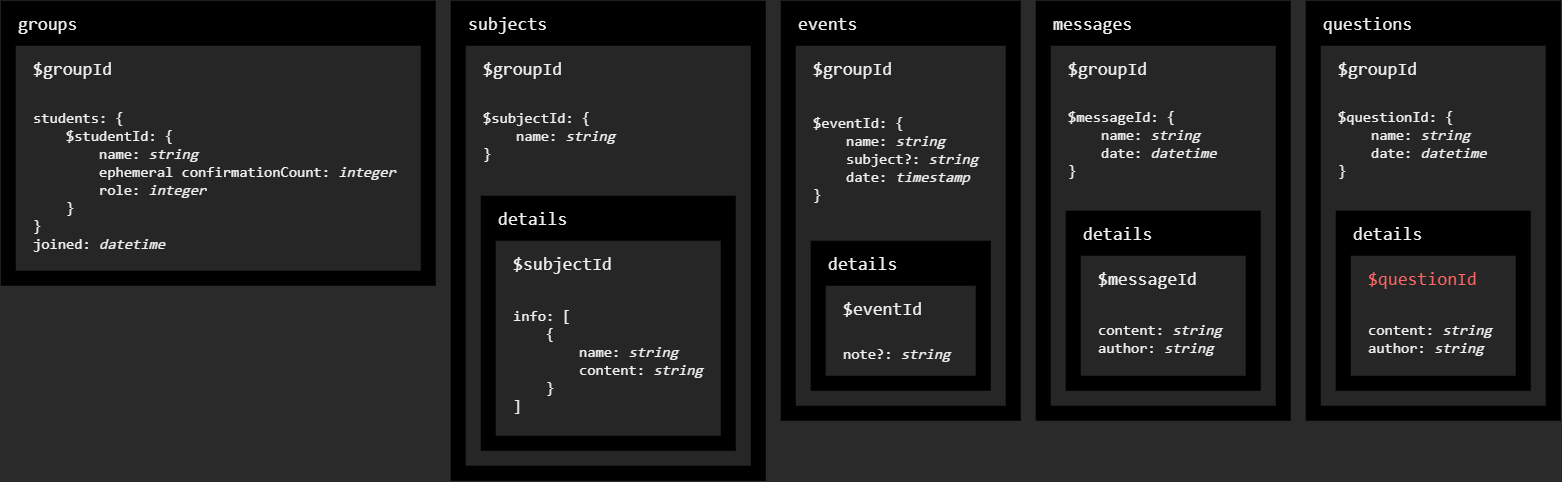
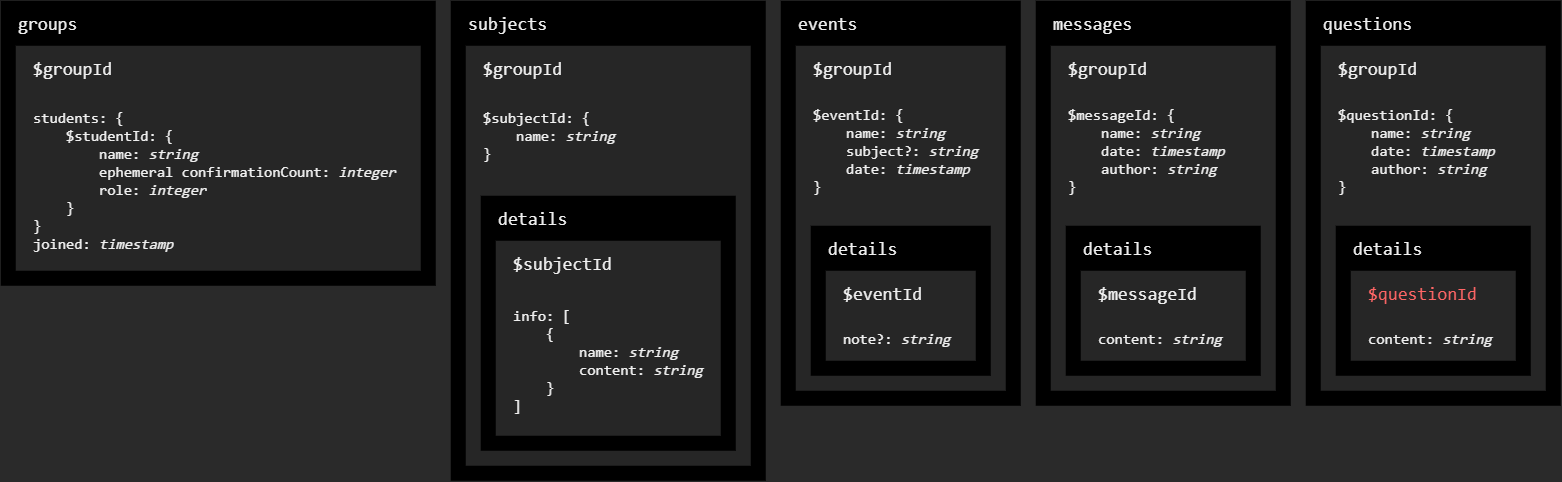
Make the author of a message not a detail

diff --git a/app/lib/storage/entities/message.dart b/app/lib/storage/entities/message.dart
@@ -9,7 +9,7 @@ import 'entity.dart';
 
 class Message extends Entity implements Comparable {
 	final DateTime date;
-	String? author;
+	String author;
 
 	Message({
 		required String name,
@@ -22,16 +22,17 @@ class Message extends Entity implements Comparable {
 	
 	Message.fromCloudFormat(MapEntry<String, dynamic> entry) :
 		_name = entry.value[Field.name.name] as String,
-		date = (entry.value[Field.date.name] as Timestamp).toDate();
+		date = (entry.value[Field.date.name] as Timestamp).toDate(),
+		author = entry.value[Field.author.name] as String;
 
 	CloudMap get inCloudFormat => {
 		Field.name.name: name,
-		Field.date.name: date
+		Field.date.name: date,
+		Field.author.name: author
 	};
 
 	CloudMap get detailsInCloudFormat => {
-		Field.content.name: content,
-		Field.author.name: author
+		Field.content.name: content
 	};
 
 	String _name;
@@ -51,7 +52,6 @@ class Message extends Entity implements Comparable {
 	Future<void> addDetails() async {
 		final details = await Cloud.entityDetails(Collection.messages, id);
 		content = details[Field.content.name];
-		author = details[Field.author.name];
 	}
 
 	@override

diff --git a/app/lib/ui/main/group_zone/home/sections/entity_pages/message.dart b/app/lib/ui/main/group_zone/home/sections/entity_pages/message.dart
@@ -35,7 +35,7 @@ class _MessagePageState extends State<MessagePage> {
 	@override
 	Widget build(BuildContext context) {
 		final author = _message.author;
-		final isAuthor = Local.name == author;
+		final isAuthor = author == Local.name;
 
 		final content = _message.content;
 		final hasContent = content != null;
@@ -49,7 +49,7 @@ class _MessagePageState extends State<MessagePage> {
 					enabled: isAuthor,
 				),
 				Text(_message.date.fullRepr),
-				if (author != null) Text("from $author"),
+				Text("from $author"),
 				if (hasContent) InputField(
 					controller: _contentField,
 					name: "content",

diff --git a/app/lib/ui/main/group_zone/home/sections/messages.dart b/app/lib/ui/main/group_zone/home/sections/messages.dart
@@ -41,6 +41,7 @@ class MessagesSection extends CloudEntitiesSection<MessagesSectionCloudData, Mes
 	List<Widget> tiles(BuildContext context, List<Message> messages) => [
 		for (final message in messages) EntityTile(
 			title: message.name,
+			subtitle: message.author,
 			trailing: message.date.dateRepr,
 			pageBuilder: () => MessagePage(message)
 		),
